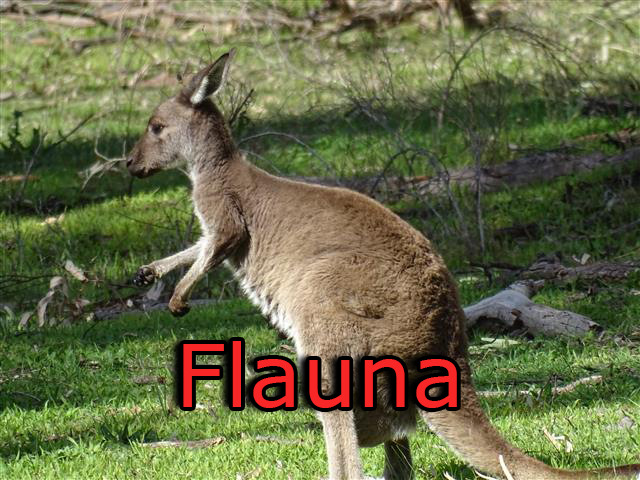
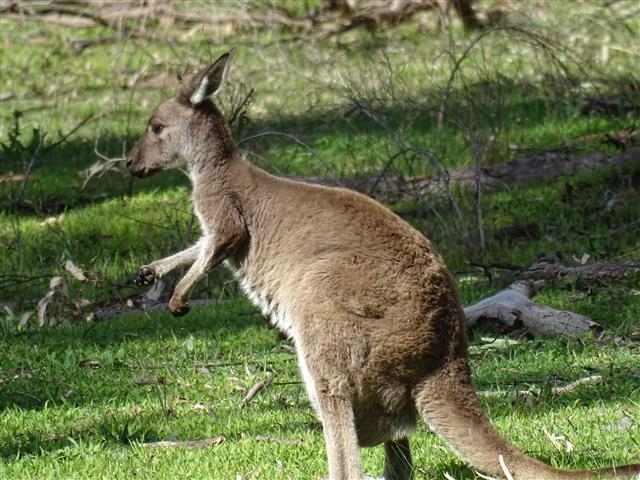
Revert "photoshopped"
This reverts commit 05e0d6086d4699f4a275eef876bdf1ee93dd7fad.

Changed region(s): [[0.25, 0.6875, 0.7188, 0.875]]

diff --git a/Blackham Final/Gallery.html b/Blackham Final/Gallery.html
@@ -97,7 +97,7 @@
 <img src="assets/images/birdimagesm.png" width = "200px" height = "200px">
 </div>
 
-<!----replaced :)---->
+<!----Replace with photoshopped images---->
 <div class="mainimg">
 <a href="Gallery2.html"><img src="assets/images/DSC01950.jpg" width="100%" height="100%"></a>
 </div>
